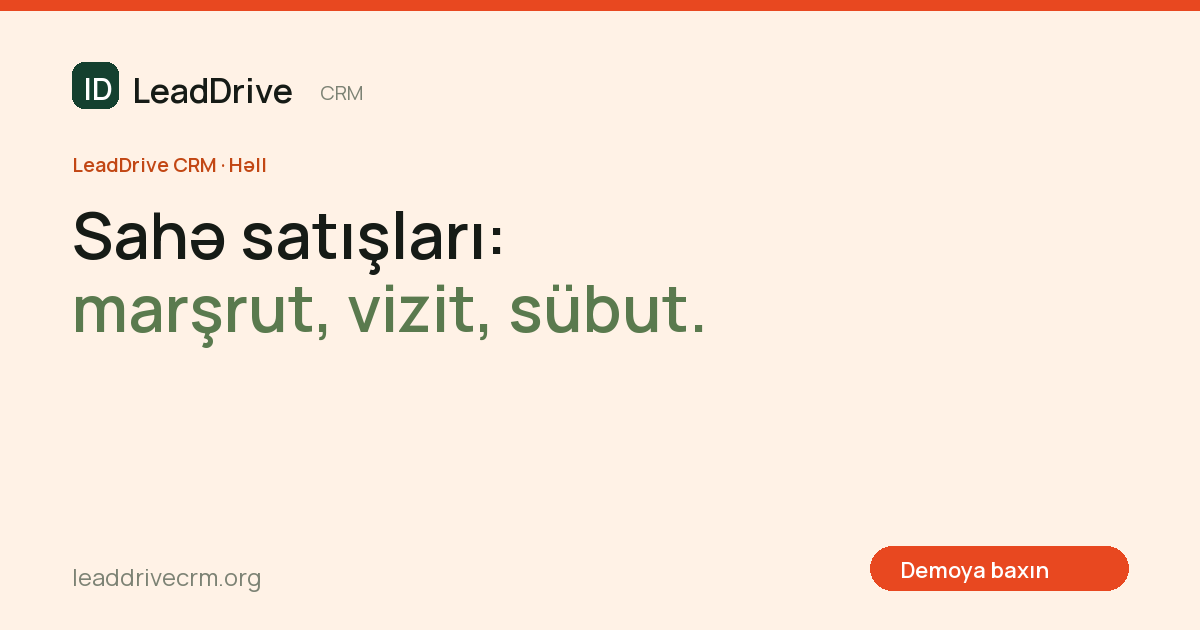
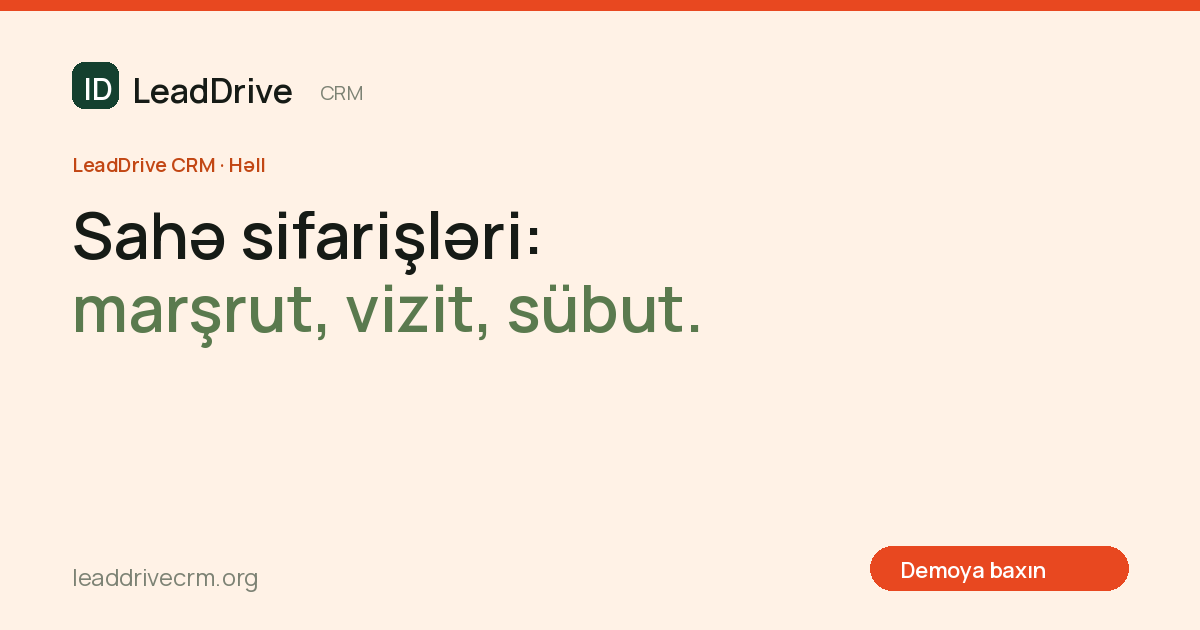
«Полевые заказы» вместо «полевых продаж» на всём сайте
Поправка владельца: полевые команды оформляют заказы, онлайн-оплаты нет,
поэтому это не «продажи». Заменено в решении (заголовок, h1, ключевые
слова), в хабе решений, в сравнениях с Bitrix24 и amoCRM, в описании блога и
в статье о контроле агентов — az «sahə sifarişləri», ru «полевые заказы», en
«field orders». Картинки превью этой страницы перегенерированы
scripts/gen-og.py (остальные не тронуты). Адреса страниц (field-sales-crm,
field-sales-control) оставлены: их смена сломала бы уже проиндексированные
ссылки.

diff --git a/lib/compare.ts b/lib/compare.ts
@@ -20,34 +20,34 @@ export const COMPARISONS: Comparison[] = [
   {
     slug: 'leaddrive-vs-bitrix24', solutions: ['whatsapp-crm', 'sales-crm', 'invoicing-finance'],
     copy: {
-      az: { title: 'LeadDrive və Bitrix24: Azərbaycan biznesi üçün CRM müqayisəsi', description: 'LeadDrive CRM ilə Bitrix24-ün dürüst müqayisəsi: WhatsApp və Instagram, Azərbaycan dili, fakturalar və müqavilələr, sahə satışları, AI, tətbiq və dəstək. Hansı hallarda hansı sistem uyğundur.', keywords: ['Bitrix24 alternativ', 'Bitrix24 Azərbaycan', 'LeadDrive vs Bitrix24', 'Bitrix24 müqayisə', 'CRM müqayisə'], h1: 'LeadDrive və Bitrix24:', h2: 'hansı CRM sizin komandaya uyğundur.', intro: 'Bitrix24 — geniş korporativ portal: CRM, tapşırıqlar, sənədlər, çat, sayt qurucu. LeadDrive — müştəri ilə işə fokuslanmış CRM: müraciətdən fakturaya və dəstəyə qədər, Azərbaycan bazarı üçün. Aşağıdakı cədvəl fərqləri konkret meyarlar üzrə göstərir.', otherName: 'Bitrix24', rows: [
+      az: { title: 'LeadDrive və Bitrix24: Azərbaycan biznesi üçün CRM müqayisəsi', description: 'LeadDrive CRM ilə Bitrix24-ün dürüst müqayisəsi: WhatsApp və Instagram, Azərbaycan dili, fakturalar və müqavilələr, sahə sifarişləri, AI, tətbiq və dəstək. Hansı hallarda hansı sistem uyğundur.', keywords: ['Bitrix24 alternativ', 'Bitrix24 Azərbaycan', 'LeadDrive vs Bitrix24', 'Bitrix24 müqayisə', 'CRM müqayisə'], h1: 'LeadDrive və Bitrix24:', h2: 'hansı CRM sizin komandaya uyğundur.', intro: 'Bitrix24 — geniş korporativ portal: CRM, tapşırıqlar, sənədlər, çat, sayt qurucu. LeadDrive — müştəri ilə işə fokuslanmış CRM: müraciətdən fakturaya və dəstəyə qədər, Azərbaycan bazarı üçün. Aşağıdakı cədvəl fərqləri konkret meyarlar üzrə göstərir.', otherName: 'Bitrix24', rows: [
         { feature: 'Fokus', leaddrive: 'Müştəri ilə iş: satış, ünsiyyət, dəstək, müqavilələr, fakturalar, sahə', other: 'Korporativ portal: CRM + tapşırıqlar, sənədlər, çat, sayt qurucu' },
         { feature: 'Azərbaycan dili', leaddrive: 'İnterfeys və dəstək Azərbaycan dilində, yerli komanda', other: 'Çoxdilli interfeys; Azərbaycan dili və yerli dəstək partnyorlar vasitəsilə' },
         { feature: 'WhatsApp, Instagram, Telegram', leaddrive: 'Vahid Inbox, kanal kataloqunda addım-addım qoşulma, AI rejimi hər kanal üçün', other: 'Açıq xətlər (Open Channels) və konnektorlar vasitəsilə, bəzi kanallar bazar tətbiqləri ilə' },
         { feature: 'Fakturalar və müqavilələr', leaddrive: 'Faktura reyestri, xatırlatma zənciri, müqavilə şablonları, təsdiq marşrutu, e-imza — CRM-in içində', other: 'Faktura və sənəd funksiyaları var; müqavilə dövriyyəsi əlavə konfiqurasiya və ya tətbiqlərlə' },
-        { feature: 'Sahə satışları', leaddrive: 'Marşrutlar, GPS vizitlər, fotohesabat moderasiyası, KPI Arena', other: 'Standart modul kimi yoxdur; bazar tətbiqləri ilə' },
+        { feature: 'Sahə sifarişləri', leaddrive: 'Marşrutlar, GPS vizitlər, fotohesabat moderasiyası, KPI Arena', other: 'Standart modul kimi yoxdur; bazar tətbiqləri ilə' },
         { feature: 'AI', leaddrive: 'AI agent kanallarda, Da Vinci məsləhətçi, 14 avtopilot ssenarisi, üç həvalə səviyyəsi, gündəlik büdcə', other: 'CoPilot köməkçi: mətn, zəng transkripti, tapşırıq — tarif planına görə' },
         { feature: 'Sahə bölmələri', leaddrive: 'Səhiyyə, sığorta, dövlət sektoru, media, enerji — hazır reyestrlər', other: 'Universal CRM; sahə həlləri partnyorlar tərəfindən' },
         { feature: 'Tətbiq', leaddrive: 'Şirkətlə birbaşa, prosesin təsviri və pilot şöbə ilə', other: 'Özbaşına və ya sertifikatlı partnyorla' },
         { feature: 'Qiymət', leaddrive: 'Şirkət üçün fərdi şərtlər, WhatsApp-da müzakirə', other: 'Pulsuz plan və istifadəçi/plan üzrə tariflər' },
       ], when: ['Müraciətlərin əksəriyyəti WhatsApp və Instagram-dan gəlir.', 'Satış, faktura və müqavilə eyni müştəri kartında olmalıdır.', 'Sahə komandası və ya sahə bölməsi (klinika, sığorta, dövlət) var.', 'Azərbaycan dilində dəstək və tətbiq lazımdır.'], whenOther: ['Şirkətə CRM-dən çox korporativ portal (tapşırıqlar, sənədlər, daxili çat) lazımdır.', 'Komanda artıq Bitrix24 ekosistemində işləyir.', 'Pulsuz plan ilə başlamaq istəyirsiniz.'], faq: [['Bitrix24-dən LeadDrive-a keçmək olar?', 'Bəli. Kontaktlar, şirkətlər və sövdələşmələr Excel/CSV vasitəsilə idxal olunur, dublikatlar birləşdirilir. Demoda öz faylınızla yoxlaya bilərsiniz.'], ['LeadDrive-da tapşırıqlar və layihələr var?', 'Bəli, CRM əsasında tapşırıqlar və layihələr var, amma LeadDrive korporativ portal deyil: daxili sosial şəbəkə və sayt qurucu yoxdur.'], ['Hansı sistem daha ucuzdur?', 'Bu, istifadəçi sayından və lazım olan modullardan asılıdır. LeadDrive sabit tarif dərc etmir, şərtlər şirkətə görə müzakirə olunur.']], note: NOTE.az },
-      ru: { title: 'LeadDrive и Bitrix24: сравнение CRM для бизнеса в Азербайджане', description: 'Честное сравнение LeadDrive CRM и Битрикс24: WhatsApp и Instagram, азербайджанский язык, счета и договоры, полевые продажи, AI, внедрение и поддержка. В каких случаях какая система подходит.', keywords: ['альтернатива Битрикс24', 'Битрикс24 Азербайджан', 'LeadDrive vs Bitrix24', 'сравнение Битрикс24', 'сравнение CRM'], h1: 'LeadDrive и Bitrix24:', h2: 'какая CRM подходит вашей команде.', intro: 'Bitrix24 — широкий корпоративный портал: CRM, задачи, документы, чат, конструктор сайтов. LeadDrive — CRM, сфокусированная на работе с клиентом: от обращения до счёта и поддержки, для рынка Азербайджана. Таблица ниже показывает различия по конкретным критериям.', otherName: 'Bitrix24', rows: [
+      ru: { title: 'LeadDrive и Bitrix24: сравнение CRM для бизнеса в Азербайджане', description: 'Честное сравнение LeadDrive CRM и Битрикс24: WhatsApp и Instagram, азербайджанский язык, счета и договоры, полевые заказы, AI, внедрение и поддержка. В каких случаях какая система подходит.', keywords: ['альтернатива Битрикс24', 'Битрикс24 Азербайджан', 'LeadDrive vs Bitrix24', 'сравнение Битрикс24', 'сравнение CRM'], h1: 'LeadDrive и Bitrix24:', h2: 'какая CRM подходит вашей команде.', intro: 'Bitrix24 — широкий корпоративный портал: CRM, задачи, документы, чат, конструктор сайтов. LeadDrive — CRM, сфокусированная на работе с клиентом: от обращения до счёта и поддержки, для рынка Азербайджана. Таблица ниже показывает различия по конкретным критериям.', otherName: 'Bitrix24', rows: [
         { feature: 'Фокус', leaddrive: 'Работа с клиентом: продажи, коммуникации, поддержка, договоры, счета, поле', other: 'Корпоративный портал: CRM + задачи, документы, чат, конструктор сайтов' },
         { feature: 'Азербайджанский язык', leaddrive: 'Интерфейс и поддержка на азербайджанском, локальная команда', other: 'Многоязычный интерфейс; азербайджанский и локальная поддержка через партнёров' },
         { feature: 'WhatsApp, Instagram, Telegram', leaddrive: 'Единый Inbox, пошаговое подключение в каталоге каналов, режим AI для каждого канала', other: 'Через открытые линии и коннекторы, часть каналов через приложения маркетплейса' },
         { feature: 'Счета и договоры', leaddrive: 'Реестр счетов, цепочка напоминаний, шаблоны договоров, маршрут согласования, e-подпись — внутри CRM', other: 'Есть счета и документы; договорной документооборот через дополнительную настройку или приложения' },
-        { feature: 'Полевые продажи', leaddrive: 'Маршруты, GPS-визиты, модерация фотоотчётов, KPI Arena', other: 'Нет в стандартном модуле; через приложения маркетплейса' },
+        { feature: 'Полевые заказы', leaddrive: 'Маршруты, GPS-визиты, модерация фотоотчётов, KPI Arena', other: 'Нет в стандартном модуле; через приложения маркетплейса' },
         { feature: 'AI', leaddrive: 'AI-агент в каналах, советник Da Vinci, 14 сценариев автопилота, три уровня делегирования, дневной бюджет', other: 'Помощник CoPilot: тексты, транскрипты звонков, задачи — в зависимости от тарифа' },
         { feature: 'Отраслевые разделы', leaddrive: 'Медицина, страхование, госсектор, медиа, энергетика — готовые реестры', other: 'Универсальная CRM; отраслевые решения от партнёров' },
         { feature: 'Внедрение', leaddrive: 'Напрямую с компанией, с описанием процесса и пилотным отделом', other: 'Самостоятельно или с сертифицированным партнёром' },
         { feature: 'Цена', leaddrive: 'Индивидуальные условия для компании, обсуждаются в WhatsApp', other: 'Бесплатный план и тарифы по пользователям/плану' },
       ], when: ['Большинство обращений приходит из WhatsApp и Instagram.', 'Продажи, счета и договоры должны быть в одной карточке клиента.', 'Есть полевая команда или отраслевой раздел (клиника, страхование, госсектор).', 'Нужны поддержка и внедрение на азербайджанском языке.'], whenOther: ['Компании нужен корпоративный портал больше, чем CRM (задачи, документы, внутренний чат).', 'Команда уже работает в экосистеме Bitrix24.', 'Хочется начать с бесплатного плана.'], faq: [['Можно ли перейти с Bitrix24 на LeadDrive?', 'Да. Контакты, компании и сделки импортируются через Excel/CSV, дубликаты объединяются. На демо можно проверить на вашем файле.'], ['Есть ли в LeadDrive задачи и проекты?', 'Да, в основе CRM есть задачи и проекты, но LeadDrive не корпоративный портал: внутренней соцсети и конструктора сайтов нет.'], ['Какая система дешевле?', 'Зависит от числа пользователей и нужных модулей. LeadDrive не публикует фиксированные тарифы, условия обсуждаются под компанию.']], note: NOTE.ru },
-      en: { title: 'LeadDrive vs Bitrix24: CRM comparison for business in Azerbaijan', description: 'An honest comparison of LeadDrive CRM and Bitrix24: WhatsApp and Instagram, Azerbaijani language, invoices and contracts, field sales, AI, implementation and support. Which system fits which case.', keywords: ['Bitrix24 alternative', 'Bitrix24 Azerbaijan', 'LeadDrive vs Bitrix24', 'Bitrix24 comparison', 'CRM comparison'], h1: 'LeadDrive vs Bitrix24:', h2: 'which CRM fits your team.', intro: 'Bitrix24 is a broad corporate portal: CRM, tasks, documents, chat, a website builder. LeadDrive is a CRM focused on customer work: from request to invoice and support, for the Azerbaijani market. The table below shows the differences by concrete criteria.', otherName: 'Bitrix24', rows: [
+      en: { title: 'LeadDrive vs Bitrix24: CRM comparison for business in Azerbaijan', description: 'An honest comparison of LeadDrive CRM and Bitrix24: WhatsApp and Instagram, Azerbaijani language, invoices and contracts, field orders, AI, implementation and support. Which system fits which case.', keywords: ['Bitrix24 alternative', 'Bitrix24 Azerbaijan', 'LeadDrive vs Bitrix24', 'Bitrix24 comparison', 'CRM comparison'], h1: 'LeadDrive vs Bitrix24:', h2: 'which CRM fits your team.', intro: 'Bitrix24 is a broad corporate portal: CRM, tasks, documents, chat, a website builder. LeadDrive is a CRM focused on customer work: from request to invoice and support, for the Azerbaijani market. The table below shows the differences by concrete criteria.', otherName: 'Bitrix24', rows: [
         { feature: 'Focus', leaddrive: 'Customer work: sales, communication, support, contracts, invoices, field', other: 'Corporate portal: CRM plus tasks, documents, chat, website builder' },
         { feature: 'Azerbaijani language', leaddrive: 'Interface and support in Azerbaijani, a local team', other: 'Multilingual interface; Azerbaijani and local support through partners' },
         { feature: 'WhatsApp, Instagram, Telegram', leaddrive: 'One inbox, step-by-step setup in the channel catalogue, an AI mode per channel', other: 'Through Open Channels and connectors; some channels via marketplace apps' },
         { feature: 'Invoices and contracts', leaddrive: 'Invoice registry, reminder chain, contract templates, approval route, e-signature inside the CRM', other: 'Invoices and documents exist; contract workflow needs extra configuration or apps' },
-        { feature: 'Field sales', leaddrive: 'Routes, GPS visits, photo report moderation, KPI Arena', other: 'Not a standard module; via marketplace apps' },
+        { feature: 'Field orders', leaddrive: 'Routes, GPS visits, photo report moderation, KPI Arena', other: 'Not a standard module; via marketplace apps' },
         { feature: 'AI', leaddrive: 'AI agent in channels, Da Vinci advisor, 14 autopilot scenarios, three delegation levels, daily budget', other: 'CoPilot assistant: texts, call transcripts, tasks, depending on the plan' },
         { feature: 'Industry sections', leaddrive: 'Healthcare, insurance, public sector, media, energy: ready registries', other: 'A universal CRM; industry solutions from partners' },
         { feature: 'Implementation', leaddrive: 'Directly with the company, with a process description and a pilot department', other: 'Self-service or with a certified partner' },
@@ -63,7 +63,7 @@ export const COMPARISONS: Comparison[] = [
         { feature: 'Messencerlər', leaddrive: 'WhatsApp, Instagram, Telegram, Messenger, VK, TikTok, sayt çatı, SMS — vahid Inbox', other: 'Geniş messencer dəstəyi, «Salesbot» botlar' },
         { feature: 'Dəstək və tiketlər', leaddrive: 'Service Desk: SLA, eskalasiya L1–L3, bacarıq üzrə növbələr, bilik bazası, müştəri portalı', other: 'Ayrı tiket modulu yoxdur; dəstək satış boru xətti və çatlarla' },
         { feature: 'Fakturalar və müqavilələr', leaddrive: 'Faktura reyestri, xatırlatma zənciri, müqavilə şablonları, təsdiq, e-imza', other: 'Əsas fakturalar; müqavilə dövriyyəsi inteqrasiyalarla' },
-        { feature: 'Sahə satışları', leaddrive: 'Marşrutlar, GPS vizitlər, fotohesabatlar, KPI Arena', other: 'Yoxdur' },
+        { feature: 'Sahə sifarişləri', leaddrive: 'Marşrutlar, GPS vizitlər, fotohesabatlar, KPI Arena', other: 'Yoxdur' },
         { feature: 'AI', leaddrive: 'AI agent, Da Vinci məsləhətçi, 14 avtopilot ssenarisi, həvalə səviyyələri', other: 'AI funksiyaları çatlarda və botlarda' },
         { feature: 'Azərbaycan dili və dəstək', leaddrive: 'Interfeys və yerli dəstək Azərbaycan dilində', other: 'Rus və ingilis interfeys; yerli dəstək partnyorlarla' },
         { feature: 'Hüquqlar və audit', leaddrive: 'Modul × rol matrisi, sahə səviyyəsində hüquqlar, 2FA, audit jurnalı', other: 'Rollar və hüquqlar; audit imkanları plana görə' },
@@ -74,7 +74,7 @@ export const COMPARISONS: Comparison[] = [
         { feature: 'Мессенджеры', leaddrive: 'WhatsApp, Instagram, Telegram, Messenger, VK, TikTok, чат на сайте, SMS — единый Inbox', other: 'Широкая поддержка мессенджеров, боты Salesbot' },
         { feature: 'Поддержка и тикеты', leaddrive: 'Service Desk: SLA, эскалация L1–L3, очереди по навыкам, база знаний, клиентский портал', other: 'Отдельного модуля тикетов нет; поддержка через воронку и чаты' },
         { feature: 'Счета и договоры', leaddrive: 'Реестр счетов, цепочка напоминаний, шаблоны договоров, согласование, e-подпись', other: 'Базовые счета; договорной документооборот через интеграции' },
-        { feature: 'Полевые продажи', leaddrive: 'Маршруты, GPS-визиты, фотоотчёты, KPI Arena', other: 'Нет' },
+        { feature: 'Полевые заказы', leaddrive: 'Маршруты, GPS-визиты, фотоотчёты, KPI Arena', other: 'Нет' },
         { feature: 'AI', leaddrive: 'AI-агент, советник Da Vinci, 14 сценариев автопилота, уровни делегирования', other: 'AI-функции в чатах и ботах' },
         { feature: 'Азербайджанский язык и поддержка', leaddrive: 'Интерфейс и локальная поддержка на азербайджанском', other: 'Русский и английский интерфейс; локальная поддержка через партнёров' },
         { feature: 'Права и аудит', leaddrive: 'Матрица модуль × роль, права на уровне полей, 2FA, журнал аудита', other: 'Роли и права; возможности аудита зависят от плана' },
@@ -85,7 +85,7 @@ export const COMPARISONS: Comparison[] = [
         { feature: 'Messengers', leaddrive: 'WhatsApp, Instagram, Telegram, Messenger, VK, TikTok, website chat, SMS in one inbox', other: 'Broad messenger support, Salesbot bots' },
         { feature: 'Support and tickets', leaddrive: 'Service Desk: SLA, L1–L3 escalation, skill queues, knowledge base, customer portal', other: 'No separate ticket module; support through the pipeline and chats' },
         { feature: 'Invoices and contracts', leaddrive: 'Invoice registry, reminder chain, contract templates, approval, e-signature', other: 'Basic invoices; contract workflow through integrations' },
-        { feature: 'Field sales', leaddrive: 'Routes, GPS visits, photo reports, KPI Arena', other: 'None' },
+        { feature: 'Field orders', leaddrive: 'Routes, GPS visits, photo reports, KPI Arena', other: 'None' },
         { feature: 'AI', leaddrive: 'AI agent, Da Vinci advisor, 14 autopilot scenarios, delegation levels', other: 'AI features in chats and bots' },
         { feature: 'Azerbaijani language and support', leaddrive: 'Interface and local support in Azerbaijani', other: 'Russian and English interface; local support via partners' },
         { feature: 'Rights and audit', leaddrive: 'Module × role matrix, field-level rights, 2FA, audit log', other: 'Roles and rights; audit features depend on the plan' },

diff --git a/lib/articles-a.ts b/lib/articles-a.ts
@@ -134,23 +134,23 @@ export const ARTICLES_A: Article[] = [
   {
     slug: 'field-sales-control', date: '2026-09-07', solutions: ['field-sales-crm', 'crm-for-utilities'],
     copy: {
-      az: { title: 'Sahə agentlərinə mikromenecmentsiz necə nəzarət etməli: GPS, foto, KPI', description: 'Sahə komandalarının nəzarəti: marşrut planı, GPS təsdiqli vizitlər, fotohesabatların moderasiyası, KPI reytinqi. Nə işləyir, nə isə komandanı qıcıqlandırır.', keywords: ['sahə satışları', 'agent nəzarəti', 'GPS vizit', 'merçendayzer nəzarəti', 'tibbi nümayəndə'], h1: 'Sahə agentlərinə mikromenecmentsiz necə nəzarət etməli', intro: 'Sahə komandasında iki ekstremal var: tam etibar (və ayın sonunda sürpriz) və ya hər 15 dəqiqədən bir zəng. Üçüncü yol — nəticəni yox, prosesin sübutunu ölçmək: vizit oldu, foto var, tapşırıq bağlandı.', sections: [
+      az: { title: 'Sahə agentlərinə mikromenecmentsiz necə nəzarət etməli: GPS, foto, KPI', description: 'Sahə komandalarının nəzarəti: marşrut planı, GPS təsdiqli vizitlər, fotohesabatların moderasiyası, KPI reytinqi. Nə işləyir, nə isə komandanı qıcıqlandırır.', keywords: ['sahə sifarişləri', 'agent nəzarəti', 'GPS vizit', 'merçendayzer nəzarəti', 'tibbi nümayəndə'], h1: 'Sahə agentlərinə mikromenecmentsiz necə nəzarət etməli', intro: 'Sahə komandasında iki ekstremal var: tam etibar (və ayın sonunda sürpriz) və ya hər 15 dəqiqədən bir zəng. Üçüncü yol — nəticəni yox, prosesin sübutunu ölçmək: vizit oldu, foto var, tapşırıq bağlandı.', sections: [
         { h2: 'Marşrut günün planıdır', p: ['Agent səhər telefonda günün marşrutunu görür: nöqtələr, ardıcıllıq, hər nöqtədə tapşırıqlar. Rəhbər isə axşam plan/fakt görür. Marşrutsuz nəzarət mümkün deyil, çünki müqayisə ediləcək şey yoxdur.'] },
         { h2: 'GPS və geozona — nəzarət deyil, sübut', p: ['Vizit nöqtədə qeyd olunur; sistem agentin geozonada olduğunu yoxlayır. Bu, agenti «izləmək» üçün deyil, onun işini sübut etmək üçündür — mübahisə olanda agent də qorunur.'] },
         { h2: 'Fotohesabatlar və moderasiya', p: ['Rəf fotosu, promo materialı, quraşdırma — foto tapşırığa bağlanır və moderasiya növbəsinə düşür. Rəhbər təsdiqləyir və ya rədd edir, rədd səbəbi agentə gedir. WhatsApp-a atılan fotolar bir həftədən sonra tapılmır.'] },
-        { h2: 'KPI: çəkilər və şəffaflıq', list: ['Tapşırıq icrası — 40%', 'Foto təsdiqi — 30%', 'Marşrut icrası — 30%'], p: ['Çəkilər şirkətə görə dəyişir, əsas odur ki, agent öz reytinqini və hesablama qaydasını görsün. LeadDrive-da KPI Arena bunu göstərir; ətraflı «Sahə satışları» həlli səhifəsində.'] },
+        { h2: 'KPI: çəkilər və şəffaflıq', list: ['Tapşırıq icrası — 40%', 'Foto təsdiqi — 30%', 'Marşrut icrası — 30%'], p: ['Çəkilər şirkətə görə dəyişir, əsas odur ki, agent öz reytinqini və hesablama qaydasını görsün. LeadDrive-da KPI Arena bunu göstərir; ətraflı «Sahə sifarişləri» həlli səhifəsində.'] },
       ] },
-      ru: { title: 'Как контролировать полевых агентов без микроменеджмента: GPS, фото, KPI', description: 'Контроль полевых команд: план маршрута, визиты с GPS-подтверждением, модерация фотоотчётов, рейтинг KPI. Что работает, а что раздражает команду.', keywords: ['полевые продажи', 'контроль агентов', 'GPS визиты', 'контроль мерчендайзеров', 'медицинский представитель'], h1: 'Как контролировать полевых агентов без микроменеджмента', intro: 'В полевой команде есть две крайности: полное доверие (и сюрприз в конце месяца) или звонок каждые 15 минут. Третий путь — измерять не ощущения, а доказательства процесса: визит был, фото есть, задача закрыта.', sections: [
+      ru: { title: 'Как контролировать полевых агентов без микроменеджмента: GPS, фото, KPI', description: 'Контроль полевых команд: план маршрута, визиты с GPS-подтверждением, модерация фотоотчётов, рейтинг KPI. Что работает, а что раздражает команду.', keywords: ['полевые заказы', 'контроль агентов', 'GPS визиты', 'контроль мерчендайзеров', 'медицинский представитель'], h1: 'Как контролировать полевых агентов без микроменеджмента', intro: 'В полевой команде есть две крайности: полное доверие (и сюрприз в конце месяца) или звонок каждые 15 минут. Третий путь — измерять не ощущения, а доказательства процесса: визит был, фото есть, задача закрыта.', sections: [
         { h2: 'Маршрут — это план дня', p: ['Утром агент видит в телефоне маршрут: точки, порядок, задачи на каждой точке. Вечером руководитель видит план/факт. Без маршрута контроль невозможен, потому что не с чем сравнивать.'] },
         { h2: 'GPS и геозона — не слежка, а доказательство', p: ['Визит регистрируется на точке; система проверяет, что агент внутри геозоны. Это нужно не чтобы «следить», а чтобы подтвердить работу — при споре агент тоже защищён.'] },
         { h2: 'Фотоотчёты и модерация', p: ['Фото полки, промо-материала, установки — фото привязывается к задаче и попадает в очередь модерации. Руководитель подтверждает или отклоняет, причина отклонения уходит агенту. Фото, брошенные в WhatsApp, через неделю не найти.'] },
-        { h2: 'KPI: веса и прозрачность', list: ['Исполнение задач — 40%', 'Подтверждение фото — 30%', 'Исполнение маршрута — 30%'], p: ['Веса зависят от компании, главное, чтобы агент видел свой рейтинг и правило расчёта. В LeadDrive это показывает KPI Arena; подробнее на странице решения «Полевые продажи».'] },
+        { h2: 'KPI: веса и прозрачность', list: ['Исполнение задач — 40%', 'Подтверждение фото — 30%', 'Исполнение маршрута — 30%'], p: ['Веса зависят от компании, главное, чтобы агент видел свой рейтинг и правило расчёта. В LeadDrive это показывает KPI Arena; подробнее на странице решения «Полевые заказы».'] },
       ] },
-      en: { title: 'How to control field agents without micromanagement: GPS, photos, KPI', description: 'Controlling field teams: route plan, GPS-confirmed visits, photo report moderation, KPI ranking. What works and what annoys the team.', keywords: ['field sales', 'agent control', 'GPS visits', 'merchandiser control', 'medical representative'], h1: 'How to control field agents without micromanagement', intro: 'A field team has two extremes: full trust (and a surprise at month end) or a call every 15 minutes. The third way is to measure evidence of the process rather than feelings: the visit happened, the photo exists, the task is closed.', sections: [
+      en: { title: 'How to control field agents without micromanagement: GPS, photos, KPI', description: 'Controlling field teams: route plan, GPS-confirmed visits, photo report moderation, KPI ranking. What works and what annoys the team.', keywords: ['field orders', 'agent control', 'GPS visits', 'merchandiser control', 'medical representative'], h1: 'How to control field agents without micromanagement', intro: 'A field team has two extremes: full trust (and a surprise at month end) or a call every 15 minutes. The third way is to measure evidence of the process rather than feelings: the visit happened, the photo exists, the task is closed.', sections: [
         { h2: 'The route is the plan for the day', p: ['In the morning the agent sees the route on the phone: points, order, tasks at each point. In the evening the manager sees plan versus fact. Without a route there is no control, because there is nothing to compare against.'] },
         { h2: 'GPS and geofence: proof, not surveillance', p: ['A visit is checked in at the point; the system verifies the agent is inside the geofence. This is not about “tracking” but about proving the work; in a dispute the agent is protected too.'] },
         { h2: 'Photo reports and moderation', p: ['A shelf photo, promo material, an installation: the photo is attached to the task and goes to the moderation queue. The manager approves or rejects; the rejection reason goes to the agent. Photos dumped into WhatsApp cannot be found a week later.'] },
-        { h2: 'KPI: weights and transparency', list: ['Task execution: 40%', 'Photo approval: 30%', 'Route execution: 30%'], p: ['Weights depend on the company; what matters is that the agent sees their ranking and the calculation rule. In LeadDrive the KPI Arena shows it; more on the “Field sales” solution page.'] },
+        { h2: 'KPI: weights and transparency', list: ['Task execution: 40%', 'Photo approval: 30%', 'Route execution: 30%'], p: ['Weights depend on the company; what matters is that the agent sees their ranking and the calculation rule. In LeadDrive the KPI Arena shows it; more on the “Field orders” solution page.'] },
       ] },
     },
   },

diff --git a/lib/solutions.ts b/lib/solutions.ts
@@ -37,9 +37,9 @@ export const SOLUTIONS: Solution[] = [
   {
     slug: 'field-sales-crm', domainId: 'field', moduleIds: ['field-routes', 'field-points', 'field-control', 'workforce'],
     copy: {
-      az: { title: 'Sahə satışları və marşrutlar — GPS vizitlər, fotohesabatlar, KPI | LeadDrive', description: 'Sahə komandaları üçün CRM: günlük marşrutlar, GPS təsdiqli vizitlər, nöqtələr və kontaktlar, fotohesabatlar, canlı xəritə, agent reytinqi və iş vaxtı tabeli.', keywords: ['sahə satışları CRM', 'marşrut planlaması', 'GPS vizit', 'merçendayzinq', 'tibbi nümayəndə CRM'], h1: 'Sahə satışları:', h2: 'marşrut, vizit, sübut.', intro: 'Agentlər yoldadır, rəhbər isə canlı xəritədə kimin harada olduğunu, hansı vizitlərin GPS ilə təsdiqləndiyini və hansı fotohesabatların gəldiyini görür. Plan icrası və KPI reytinqi avtomatik hesablanır.', pains: ['Agentin real olaraq harada olduğu və nə etdiyi bilinmir.', 'Vizit hesabatları WhatsApp-a fotolarla gəlir və itir.', 'Plan icrası ayın sonunda əl ilə hesablanır.'], faq: [['Vizit necə təsdiqlənir?', 'Agent nöqtədə vizit qeyd edir, sistem GPS mövqeyini və geozonaya uyğunluğu yoxlayır; sapmalar xəbərdarlıq kimi gəlir.'], ['Fotohesabatlar kim tərəfindən yoxlanır?', 'Moderasiya növbəsində rəhbər fotoları təsdiqləyir və ya rədd edir; promo faktları L1/L2 yoxlamadan keçir.'], ['KPI necə hesablanır?', 'Tapşırıq icrası, foto təsdiqi və marşrut icrası çəkiləri ilə; hədlər KPI Arena parametrlərində tənzimlənir.']] },
-      ru: { title: 'Полевые продажи и маршруты — GPS-визиты, фотоотчёты, KPI | LeadDrive', description: 'CRM для полевых команд: маршруты по дням, визиты с GPS-подтверждением, точки и контакты, фотоотчёты, живая карта, рейтинг агентов и табель рабочего времени.', keywords: ['CRM для полевых продаж', 'планирование маршрутов', 'GPS визиты', 'мерчендайзинг', 'CRM для медпредставителей'], h1: 'Полевые продажи:', h2: 'маршрут, визит, доказательство.', intro: 'Агенты в дороге, а руководитель видит на живой карте, кто где находится, какие визиты подтверждены GPS и какие фотоотчёты пришли. Исполнение плана и рейтинг KPI считаются автоматически.', pains: ['Неизвестно, где реально агент и что он сделал.', 'Отчёты о визитах приходят фотографиями в WhatsApp и теряются.', 'Исполнение плана считают вручную в конце месяца.'], faq: [['Как подтверждается визит?', 'Агент регистрирует визит на точке, система проверяет GPS-позицию и попадание в геозону; отклонения приходят предупреждениями.'], ['Кто проверяет фотоотчёты?', 'В очереди модерации руководитель подтверждает или отклоняет фото; промо-факты проходят проверку L1/L2.'], ['Как считается KPI?', 'По весам исполнения задач, подтверждения фото и исполнения маршрута; пороги настраиваются в параметрах KPI Arena.']] },
-      en: { title: 'Field sales and routes — GPS visits, photo reports, KPI | LeadDrive', description: 'A CRM for field teams: daily routes, GPS-confirmed visits, points and contacts, photo reports, a live map, agent ranking and a working-time timesheet.', keywords: ['field sales CRM', 'route planning', 'GPS visits', 'merchandising', 'medical rep CRM'], h1: 'Field sales:', h2: 'route, visit, proof.', intro: 'Agents are on the road while the manager sees on a live map who is where, which visits are GPS-confirmed and which photo reports arrived. Plan execution and the KPI ranking are calculated automatically.', pains: ['Nobody knows where the agent really is or what they did.', 'Visit reports arrive as photos on WhatsApp and get lost.', 'Plan execution is calculated by hand at month end.'], faq: [['How is a visit confirmed?', 'The agent checks in at the point; the system verifies the GPS position and geofence, deviations arrive as alerts.'], ['Who reviews photo reports?', 'In the moderation queue the manager approves or rejects photos; promo facts pass L1/L2 checks.'], ['How is KPI calculated?', 'By weights for task execution, photo approval and route execution; thresholds are set in KPI Arena settings.']] },
+      az: { title: 'Sahə sifarişləri və marşrutlar — GPS vizitlər, fotohesabatlar, KPI | LeadDrive', description: 'Sahə komandaları üçün CRM: günlük marşrutlar, GPS təsdiqli vizitlər, nöqtələr və kontaktlar, fotohesabatlar, canlı xəritə, agent reytinqi və iş vaxtı tabeli.', keywords: ['sahə sifarişləri CRM', 'marşrut planlaması', 'GPS vizit', 'merçendayzinq', 'tibbi nümayəndə CRM'], h1: 'Sahə sifarişləri:', h2: 'marşrut, vizit, sübut.', intro: 'Agentlər yoldadır, rəhbər isə canlı xəritədə kimin harada olduğunu, hansı vizitlərin GPS ilə təsdiqləndiyini və hansı fotohesabatların gəldiyini görür. Plan icrası və KPI reytinqi avtomatik hesablanır.', pains: ['Agentin real olaraq harada olduğu və nə etdiyi bilinmir.', 'Vizit hesabatları WhatsApp-a fotolarla gəlir və itir.', 'Plan icrası ayın sonunda əl ilə hesablanır.'], faq: [['Vizit necə təsdiqlənir?', 'Agent nöqtədə vizit qeyd edir, sistem GPS mövqeyini və geozonaya uyğunluğu yoxlayır; sapmalar xəbərdarlıq kimi gəlir.'], ['Fotohesabatlar kim tərəfindən yoxlanır?', 'Moderasiya növbəsində rəhbər fotoları təsdiqləyir və ya rədd edir; promo faktları L1/L2 yoxlamadan keçir.'], ['KPI necə hesablanır?', 'Tapşırıq icrası, foto təsdiqi və marşrut icrası çəkiləri ilə; hədlər KPI Arena parametrlərində tənzimlənir.']] },
+      ru: { title: 'Полевые заказы и маршруты — GPS-визиты, фотоотчёты, KPI | LeadDrive', description: 'CRM для полевых команд: маршруты по дням, визиты с GPS-подтверждением, точки и контакты, фотоотчёты, живая карта, рейтинг агентов и табель рабочего времени.', keywords: ['CRM для полевых заказов', 'планирование маршрутов', 'GPS визиты', 'мерчендайзинг', 'CRM для медпредставителей'], h1: 'Полевые заказы:', h2: 'маршрут, визит, доказательство.', intro: 'Агенты в дороге, а руководитель видит на живой карте, кто где находится, какие визиты подтверждены GPS и какие фотоотчёты пришли. Исполнение плана и рейтинг KPI считаются автоматически.', pains: ['Неизвестно, где реально агент и что он сделал.', 'Отчёты о визитах приходят фотографиями в WhatsApp и теряются.', 'Исполнение плана считают вручную в конце месяца.'], faq: [['Как подтверждается визит?', 'Агент регистрирует визит на точке, система проверяет GPS-позицию и попадание в геозону; отклонения приходят предупреждениями.'], ['Кто проверяет фотоотчёты?', 'В очереди модерации руководитель подтверждает или отклоняет фото; промо-факты проходят проверку L1/L2.'], ['Как считается KPI?', 'По весам исполнения задач, подтверждения фото и исполнения маршрута; пороги настраиваются в параметрах KPI Arena.']] },
+      en: { title: 'Field orders and routes — GPS visits, photo reports, KPI | LeadDrive', description: 'A CRM for field teams: daily routes, GPS-confirmed visits, points and contacts, photo reports, a live map, agent ranking and a working-time timesheet.', keywords: ['field orders CRM', 'route planning', 'GPS visits', 'merchandising', 'medical rep CRM'], h1: 'Field orders:', h2: 'route, visit, proof.', intro: 'Agents are on the road while the manager sees on a live map who is where, which visits are GPS-confirmed and which photo reports arrived. Plan execution and the KPI ranking are calculated automatically.', pains: ['Nobody knows where the agent really is or what they did.', 'Visit reports arrive as photos on WhatsApp and get lost.', 'Plan execution is calculated by hand at month end.'], faq: [['How is a visit confirmed?', 'The agent checks in at the point; the system verifies the GPS position and geofence, deviations arrive as alerts.'], ['Who reviews photo reports?', 'In the moderation queue the manager approves or rejects photos; promo facts pass L1/L2 checks.'], ['How is KPI calculated?', 'By weights for task execution, photo approval and route execution; thresholds are set in KPI Arena settings.']] },
     },
   },
   {

diff --git a/lib/articles.ts b/lib/articles.ts
@@ -7,9 +7,9 @@ export type ArticleCopy = { title: string; description: string; keywords: string
 export type Article = { slug: string; date: string; solutions: string[]; copy: Record<Lang, ArticleCopy> };
 
 export const BLOG_COPY: Record<Lang, { title: string; description: string; keywords: string[]; label: string; h1: string; h2: string; intro: string; read: string; related: string; more: string; home: string; published: string; solutions: string }> = {
-  ru: { title: 'Блог LeadDrive — CRM, продажи, поддержка и автоматизация для бизнеса в Азербайджане', description: 'Практические статьи о CRM: что такое CRM, как выбрать систему в Азербайджане, WhatsApp Business API, SLA, конверсия воронки, полевые продажи, AI, договоры, дебиторка и NPS.', keywords: ['блог CRM', 'статьи о CRM', 'продажи', 'автоматизация бизнеса', 'CRM Азербайджан'], label: 'Блог', h1: 'Блог LeadDrive.', h2: 'Практика вместо теории.', intro: 'Короткие статьи о том, как устроены продажи, поддержка и автоматизация в компаниях Азербайджана. Каждая заканчивается тем, что можно настроить в CRM уже сегодня.', read: 'Читать', related: 'Решения по теме', more: 'Другие статьи', home: 'Главная', published: 'Опубликовано', solutions: 'Решения' },
-  az: { title: 'LeadDrive bloqu — Azərbaycan biznesi üçün CRM, satış, dəstək və avtomatlaşdırma', description: 'CRM haqqında praktik məqalələr: CRM nədir, Azərbaycanda sistem necə seçməli, WhatsApp Business API, SLA, boru xətti konversiyası, sahə satışları, AI, müqavilələr, debitor borcu və NPS.', keywords: ['CRM bloq', 'CRM məqalələr', 'satış', 'biznes avtomatlaşdırması', 'CRM Azərbaycan'], label: 'Bloq', h1: 'LeadDrive bloqu.', h2: 'Nəzəriyyə yox, praktika.', intro: 'Azərbaycan şirkətlərində satış, dəstək və avtomatlaşdırmanın necə qurulduğu haqqında qısa məqalələr. Hər biri bu gün CRM-də tənzimlənə biləcək şeylə bitir.', read: 'Oxu', related: 'Mövzu üzrə həllər', more: 'Digər məqalələr', home: 'Ana səhifə', published: 'Dərc olunub', solutions: 'Həllər' },
-  en: { title: 'LeadDrive blog — CRM, sales, support and automation for business in Azerbaijan', description: 'Practical articles on CRM: what a CRM is, how to choose one in Azerbaijan, WhatsApp Business API, SLA, funnel conversion, field sales, AI, contracts, receivables and NPS.', keywords: ['CRM blog', 'CRM articles', 'sales', 'business automation', 'CRM Azerbaijan'], label: 'Blog', h1: 'LeadDrive blog.', h2: 'Practice instead of theory.', intro: 'Short articles on how sales, support and automation work in companies in Azerbaijan. Each one ends with something you can configure in the CRM today.', read: 'Read', related: 'Related solutions', more: 'Other articles', home: 'Home', published: 'Published', solutions: 'Solutions' },
+  ru: { title: 'Блог LeadDrive — CRM, продажи, поддержка и автоматизация для бизнеса в Азербайджане', description: 'Практические статьи о CRM: что такое CRM, как выбрать систему в Азербайджане, WhatsApp Business API, SLA, конверсия воронки, полевые заказы, AI, договоры, дебиторка и NPS.', keywords: ['блог CRM', 'статьи о CRM', 'продажи', 'автоматизация бизнеса', 'CRM Азербайджан'], label: 'Блог', h1: 'Блог LeadDrive.', h2: 'Практика вместо теории.', intro: 'Короткие статьи о том, как устроены продажи, поддержка и автоматизация в компаниях Азербайджана. Каждая заканчивается тем, что можно настроить в CRM уже сегодня.', read: 'Читать', related: 'Решения по теме', more: 'Другие статьи', home: 'Главная', published: 'Опубликовано', solutions: 'Решения' },
+  az: { title: 'LeadDrive bloqu — Azərbaycan biznesi üçün CRM, satış, dəstək və avtomatlaşdırma', description: 'CRM haqqında praktik məqalələr: CRM nədir, Azərbaycanda sistem necə seçməli, WhatsApp Business API, SLA, boru xətti konversiyası, sahə sifarişləri, AI, müqavilələr, debitor borcu və NPS.', keywords: ['CRM bloq', 'CRM məqalələr', 'satış', 'biznes avtomatlaşdırması', 'CRM Azərbaycan'], label: 'Bloq', h1: 'LeadDrive bloqu.', h2: 'Nəzəriyyə yox, praktika.', intro: 'Azərbaycan şirkətlərində satış, dəstək və avtomatlaşdırmanın necə qurulduğu haqqında qısa məqalələr. Hər biri bu gün CRM-də tənzimlənə biləcək şeylə bitir.', read: 'Oxu', related: 'Mövzu üzrə həllər', more: 'Digər məqalələr', home: 'Ana səhifə', published: 'Dərc olunub', solutions: 'Həllər' },
+  en: { title: 'LeadDrive blog — CRM, sales, support and automation for business in Azerbaijan', description: 'Practical articles on CRM: what a CRM is, how to choose one in Azerbaijan, WhatsApp Business API, SLA, funnel conversion, field orders, AI, contracts, receivables and NPS.', keywords: ['CRM blog', 'CRM articles', 'sales', 'business automation', 'CRM Azerbaijan'], label: 'Blog', h1: 'LeadDrive blog.', h2: 'Practice instead of theory.', intro: 'Short articles on how sales, support and automation work in companies in Azerbaijan. Each one ends with something you can configure in the CRM today.', read: 'Read', related: 'Related solutions', more: 'Other articles', home: 'Home', published: 'Published', solutions: 'Solutions' },
 };
 
 export const ARTICLES: Article[] = [...ARTICLES_A, ...ARTICLES_B];

diff --git a/lib/hub-copy.ts b/lib/hub-copy.ts
@@ -1,5 +1,5 @@
 export const HUB_COPY = {
-  ru: { title: 'Решения LeadDrive CRM — по задачам и отраслям', description: 'Готовые сценарии LeadDrive CRM: WhatsApp-CRM, продажи, поддержка и тикеты, полевые продажи, договоры, счета, маркетинг, AI, а также CRM для клиник, страхования, госсектора, медиа и энергетики.', keywords: ['CRM решения', 'CRM для бизнеса', 'отраслевая CRM', 'CRM Азербайджан', 'LeadDrive'], eyebrow: 'Решения', h1: 'Одна CRM.', h2: 'Тринадцать способов её применить.', intro: 'Каждая страница описывает реальные экраны LeadDrive под конкретную задачу или отрасль: что болит, какие модули это закрывают и как выглядит внедрение по шагам.', scenarios: 'По задаче', industries: 'По отрасли', demo: 'Обсудить мой сценарий', home: 'Главная' },
-  az: { title: 'LeadDrive CRM həlləri — tapşırıq və sahə üzrə', description: 'Hazır LeadDrive CRM ssenariləri: WhatsApp CRM, satış, dəstək və tiketlər, sahə satışları, müqavilələr, fakturalar, marketinq, AI, həmçinin klinikalar, sığorta, dövlət sektoru, media və enerji üçün CRM.', keywords: ['CRM həlləri', 'biznes üçün CRM', 'sahə üzrə CRM', 'CRM Azərbaycan', 'LeadDrive'], eyebrow: 'Həllər', h1: 'Bir CRM.', h2: 'Onu tətbiq etməyin on üç yolu.', intro: 'Hər səhifə konkret tapşırıq və ya sahə üçün LeadDrive-ın real ekranlarını təsvir edir: nə ağrıdır, bunu hansı modullar bağlayır və tətbiq addım-addım necə görünür.', scenarios: 'Tapşırıq üzrə', industries: 'Sahə üzrə', demo: 'Ssenarimi müzakirə edək', home: 'Ana səhifə' },
-  en: { title: 'LeadDrive CRM solutions — by task and industry', description: 'Ready LeadDrive CRM scenarios: WhatsApp CRM, sales, support and tickets, field sales, contracts, invoices, marketing, AI, plus CRM for clinics, insurance, the public sector, media and utilities.', keywords: ['CRM solutions', 'CRM for business', 'industry CRM', 'CRM Azerbaijan', 'LeadDrive'], eyebrow: 'Solutions', h1: 'One CRM.', h2: 'Thirteen ways to apply it.', intro: 'Every page describes real LeadDrive screens for a specific task or industry: what hurts, which modules close it and what the rollout looks like step by step.', scenarios: 'By task', industries: 'By industry', demo: 'Discuss my scenario', home: 'Home' },
+  ru: { title: 'Решения LeadDrive CRM — по задачам и отраслям', description: 'Готовые сценарии LeadDrive CRM: WhatsApp-CRM, продажи, поддержка и тикеты, полевые заказы, договоры, счета, маркетинг, AI, а также CRM для клиник, страхования, госсектора, медиа и энергетики.', keywords: ['CRM решения', 'CRM для бизнеса', 'отраслевая CRM', 'CRM Азербайджан', 'LeadDrive'], eyebrow: 'Решения', h1: 'Одна CRM.', h2: 'Тринадцать способов её применить.', intro: 'Каждая страница описывает реальные экраны LeadDrive под конкретную задачу или отрасль: что болит, какие модули это закрывают и как выглядит внедрение по шагам.', scenarios: 'По задаче', industries: 'По отрасли', demo: 'Обсудить мой сценарий', home: 'Главная' },
+  az: { title: 'LeadDrive CRM həlləri — tapşırıq və sahə üzrə', description: 'Hazır LeadDrive CRM ssenariləri: WhatsApp CRM, satış, dəstək və tiketlər, sahə sifarişləri, müqavilələr, fakturalar, marketinq, AI, həmçinin klinikalar, sığorta, dövlət sektoru, media və enerji üçün CRM.', keywords: ['CRM həlləri', 'biznes üçün CRM', 'sahə üzrə CRM', 'CRM Azərbaycan', 'LeadDrive'], eyebrow: 'Həllər', h1: 'Bir CRM.', h2: 'Onu tətbiq etməyin on üç yolu.', intro: 'Hər səhifə konkret tapşırıq və ya sahə üçün LeadDrive-ın real ekranlarını təsvir edir: nə ağrıdır, bunu hansı modullar bağlayır və tətbiq addım-addım necə görünür.', scenarios: 'Tapşırıq üzrə', industries: 'Sahə üzrə', demo: 'Ssenarimi müzakirə edək', home: 'Ana səhifə' },
+  en: { title: 'LeadDrive CRM solutions — by task and industry', description: 'Ready LeadDrive CRM scenarios: WhatsApp CRM, sales, support and tickets, field orders, contracts, invoices, marketing, AI, plus CRM for clinics, insurance, the public sector, media and utilities.', keywords: ['CRM solutions', 'CRM for business', 'industry CRM', 'CRM Azerbaijan', 'LeadDrive'], eyebrow: 'Solutions', h1: 'One CRM.', h2: 'Thirteen ways to apply it.', intro: 'Every page describes real LeadDrive screens for a specific task or industry: what hurts, which modules close it and what the rollout looks like step by step.', scenarios: 'By task', industries: 'By industry', demo: 'Discuss my scenario', home: 'Home' },
 } as const;

diff --git a/components/marketing/FieldAppBlock.tsx b/components/marketing/FieldAppBlock.tsx
@@ -4,7 +4,7 @@ import { LEGAL_PATH } from '@/lib/legal-copy';
 import { langPrefix } from '@/lib/site-paths';
 
 /**
- * The agents' Android app on the field sales solution page. Facts only: the
+ * The agents' Android app on the field orders solution page. Facts only: the
  * screenshot is the real app on a tablet with demo data (2026-09-14), and the
  * app is not on Google Play yet — say "soon", never show a store badge that
  * leads nowhere. Swap the note for a Google Play link once it is published.
